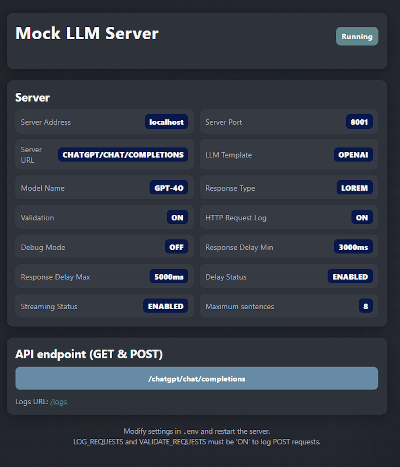
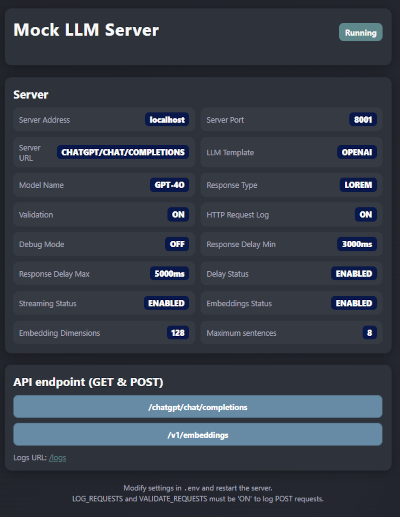
chore(): update readme

diff --git a/README.md b/README.md
@@ -8,6 +8,40 @@
 
 A quick-to-setup standalone local mock LLM API framework for developing applications with Large Language Models like ChatGPT. This project provides a local server running on localhost that simulates LLM endpoints, enabling efficient frontend development and testing without the costs and complexity of production LLM services.
 
+## Table of Contents
+
+- [Overview](#overview)
+- [Why Use LLM Mock?](#why-use-llm-mock)
+- [Prerequisites](#prerequisites)
+- [Installation](#installation)
+- [Quick Start](#quick-start)
+- [Server Status Dashboard](#server-status-dashboard)
+- [Configuration](#configuration)
+  - [Environment Variables](#environment-variables)
+  - [Embeddings Configuration](#embeddings-configuration)
+  - [Streaming Responses](#streaming-responses)
+  - [Response Delay Simulation](#response-delay-simulation)
+  - [Custom API Paths](#custom-api-paths)
+- [Features](#features)
+  - [Available Endpoints](#available-endpoints)
+  - [Response Types](#response-types)
+  - [Request Validation](#request-validation)
+  - [Request Logging](#request-logging)
+- [Integration Guide](#integration-guide)
+  - [Using with LangChain and OpenAI-Style APIs](#using-with-langchain-and-openai-style-apis)
+  - [Making API Requests](#making-api-requests)
+  - [Embeddings API](#embeddings-api)
+  - [Client Configuration](#client-configuration)
+- [Supporting Different LLM Providers](#supporting-different-llm-providers)
+  - [OpenAI-Style API Compatibility](#openai-style-api-compatibility)
+  - [Creating Custom Templates](#creating-custom-templates)
+- [Debugging](#debugging)
+- [Development Workflow](#development-workflow)
+- [Project Structure](#project-structure)
+- [Troubleshooting](#troubleshooting)
+- [Contributing](#contributing)
+- [License](#license)
+
 ### Why Use LLM Mock?
 
 - **Free and Fast**: No API costs, instant responses for rapid prototyping
@@ -19,6 +53,7 @@ A quick-to-setup standalone local mock LLM API framework for developing applicat
 - **Realistic Delays**: Simulate production API response times to test loading states and timeout handling
 - **Streamed or Static Responses**: Choose between streaming Server-Sent Events or static JSON responses to match your target LLM API behavior
 - **OpenAI-Style API Compatibility**: Works with any OpenAI-compatible API including ChatGPT, Grok, Llama, DeepSeek, and more
+- **Mock Embeddings Support**: Generate deterministic mock embeddings for testing vector search, RAG systems, and semantic similarity applications without actual embedding model costs
 - **Robust Local Server Framework**: Built with [Fastify](https://www.fastify.io/) for high performance and reliability
 
 Adapted from the [mock-api-framework-template](https://github.com/piyook/mock-api-framework-template).
@@ -40,8 +75,6 @@ npm install
 ```
 
 ## Quick Start
-
-![LLM Mock Server Page](images/server-page.png)
 
 ### Using Docker (Recommended)
 
@@ -75,6 +108,35 @@ npm run dev
 ```
 
 This starts the mock server locally. For details on the Svelte-based dashboard and UI development workflow, see `UI-Dev.md`.
+
+## Server Status Dashboard   
+
+Once the server is running, navigate to **`http://localhost:8001`** to access the interactive server status dashboard. This web interface provides real-time visibility into your mock server configuration and activity. 
+   
+     
+![LLM Mock Server Page](images/server-page.png)
+
+### Dashboard Features
+
+- **Server Status**: Real-time indicator showing if the server is running and accessible
+- **Configuration Display**: Shows all current environment variables and settings including:
+  - Server port and URL
+  - LLM model and template configuration
+  - Response type (Lorem Ipsum vs Stored)
+  - Request validation and logging status
+  - Streaming mode configuration
+  - Response delay settings
+  - **Embeddings endpoint status** and dimensions
+- **API Endpoints**: Direct links to all available endpoints (chat completions, embeddings, etc.)
+- **Request Logs**: Access to detailed request logs at `/logs` for debugging
+
+### Navigation
+
+1. **Main Dashboard**: `http://localhost:8001` - Overview and configuration
+2. **Request Logs**: `http://localhost:8001/logs` - Detailed API request history
+3. **Health Check**: `http://localhost:8001/ping` - Simple server status check
+
+The dashboard updates automatically every 2 seconds to reflect real-time changes in server configuration and status.
 
 ## Configuration
 
